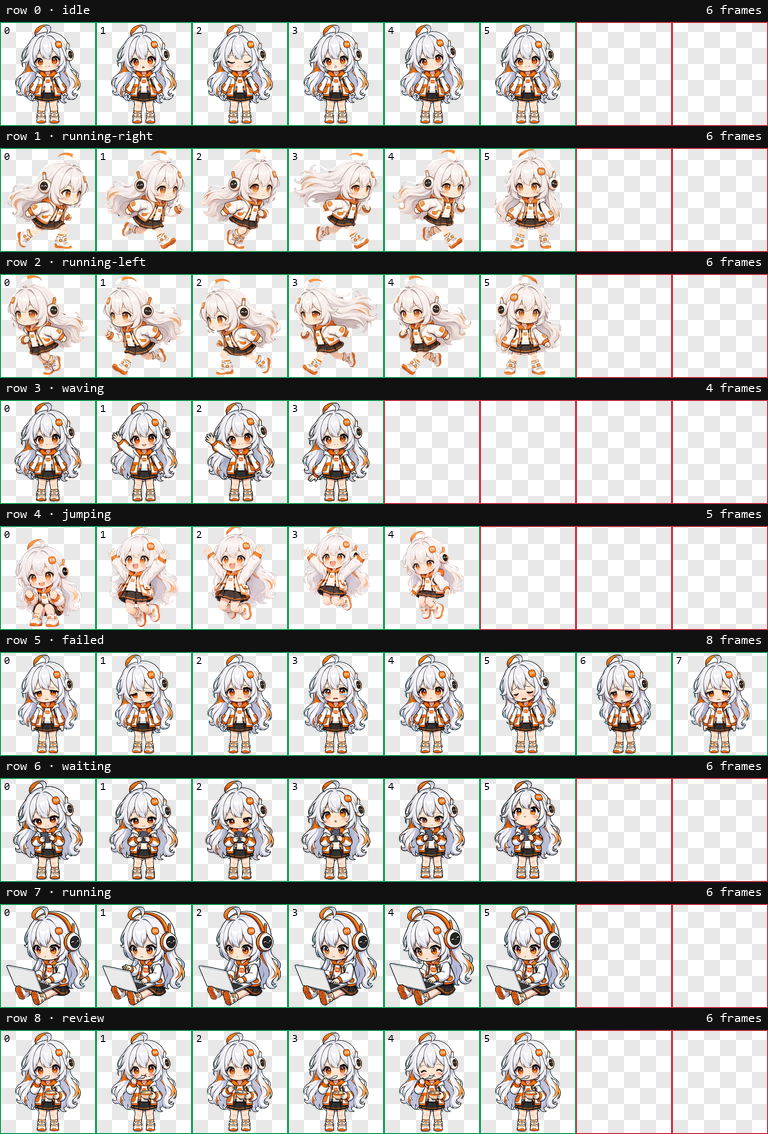
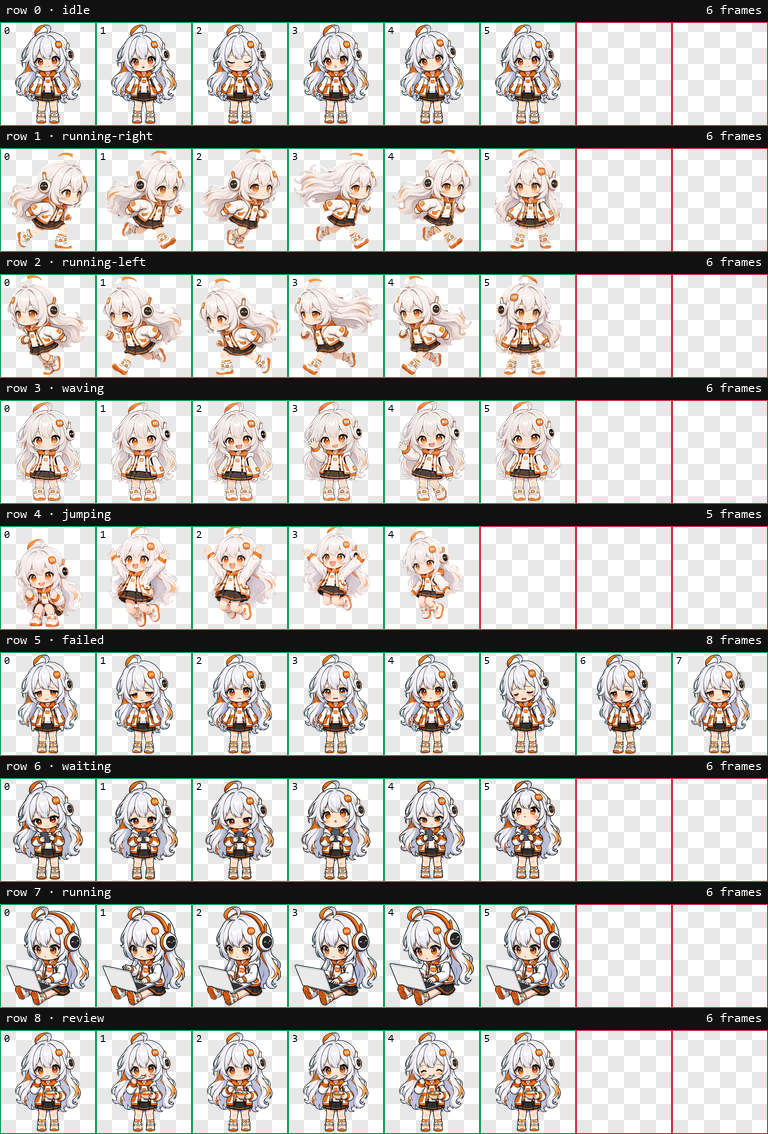
Replace the wave with the hand-drawn six-frame sheet
The greeting row now uses the hand-drawn sheet: six frames (glance, raise, wave twice, lower), scaled together to 197-200px tall and grounded at y=202, with the two spare cells filled by repeats so the eight-column contract the ChatGPT/Codex pet consumes stays intact.

Changed region(s): [[0.0, 0.3395, 0.75, 0.463]]

diff --git a/app/mimo_pet.py b/app/mimo_pet.py
@@ -41,7 +41,7 @@ STATES = {
     "idle":          (0, 6, [1680, 660, 660, 840, 840, 1920]),
     "running-right": (1, 6, [144] * 5 + [240]),   # 6 帧，一轮 0.96s（= 旧的 8x120ms）
     "running-left":  (2, 6, [144] * 5 + [240]),   # ——所以走路速度/步幅不用改，不会滑步
-    "waving":        (3, 4, [140, 140, 140, 280]),
+    "waving":        (3, 6, [140, 140, 150, 200, 220, 280]),  # 站定→抬手→挥两下→收回
     "jumping":       (4, 6, [150, 140, 140, 150, 140, 240]),
     "failed":        (5, 8, [140] * 7 + [240]),
     "waiting":       (6, 6, [150] * 5 + [260]),

diff --git a/skill/scripts/make_previews.py b/skill/scripts/make_previews.py
@@ -26,7 +26,7 @@ STATES: dict[str, tuple[int, int, list[int]]] = {
     "idle":          (0, 6, [1680, 660, 660, 840, 840, 1920]),
     "running-right": (1, 6, [144] * 5 + [240]),
     "running-left":  (2, 6, [144] * 5 + [240]),
-    "waving":        (3, 4, [140, 140, 140, 280]),
+    "waving":        (3, 6, [140, 140, 150, 200, 220, 280]),
     "jumping":       (4, 5, [140, 140, 140, 140, 280]),
     "failed":        (5, 8, [140] * 7 + [240]),
     "waiting":       (6, 6, [150] * 5 + [260]),

diff --git a/README.md b/README.md
@@ -4,7 +4,7 @@
 
 ## 下载（推荐）
 
-**[📥 下载安装包 MimoPet-Setup-1.0.8.exe](https://github.com/Darry-cpu/mimo-pet/releases/latest)**
+**[📥 下载安装包 MimoPet-Setup-1.0.9.exe](https://github.com/Darry-cpu/mimo-pet/releases/latest)**
 
 双击即可安装，**无需管理员权限、无需安装 Python**。全部版本见 [Releases](https://github.com/Darry-cpu/mimo-pet/releases)。
 
@@ -86,7 +86,7 @@ iscc mimo_setup.iss
 
 - PNG/WebP，`1536 x 1872`，`8` 列 × `9` 行，每格 `192 x 208`
 - 透明背景，未使用格子必须全透明
-- 每行帧数：`[6, 6, 6, 4, 6, 8, 6, 6, 6]`（跑动两行与跳跃为 6 帧：比 Codex 契约少/多的格子在图集里用重复帧补齐，本应用按 6 帧播放）
+- 每行帧数：`[6, 6, 6, 6, 6, 8, 6, 6, 6]`（跑动、挥手、跳跃均为 6 帧：与 Codex 契约不一致的格子在图集里用重复帧补齐，本应用按 6 帧播放）
 
 | 行 | 状态 | 含义 |
 |---|---|---|
